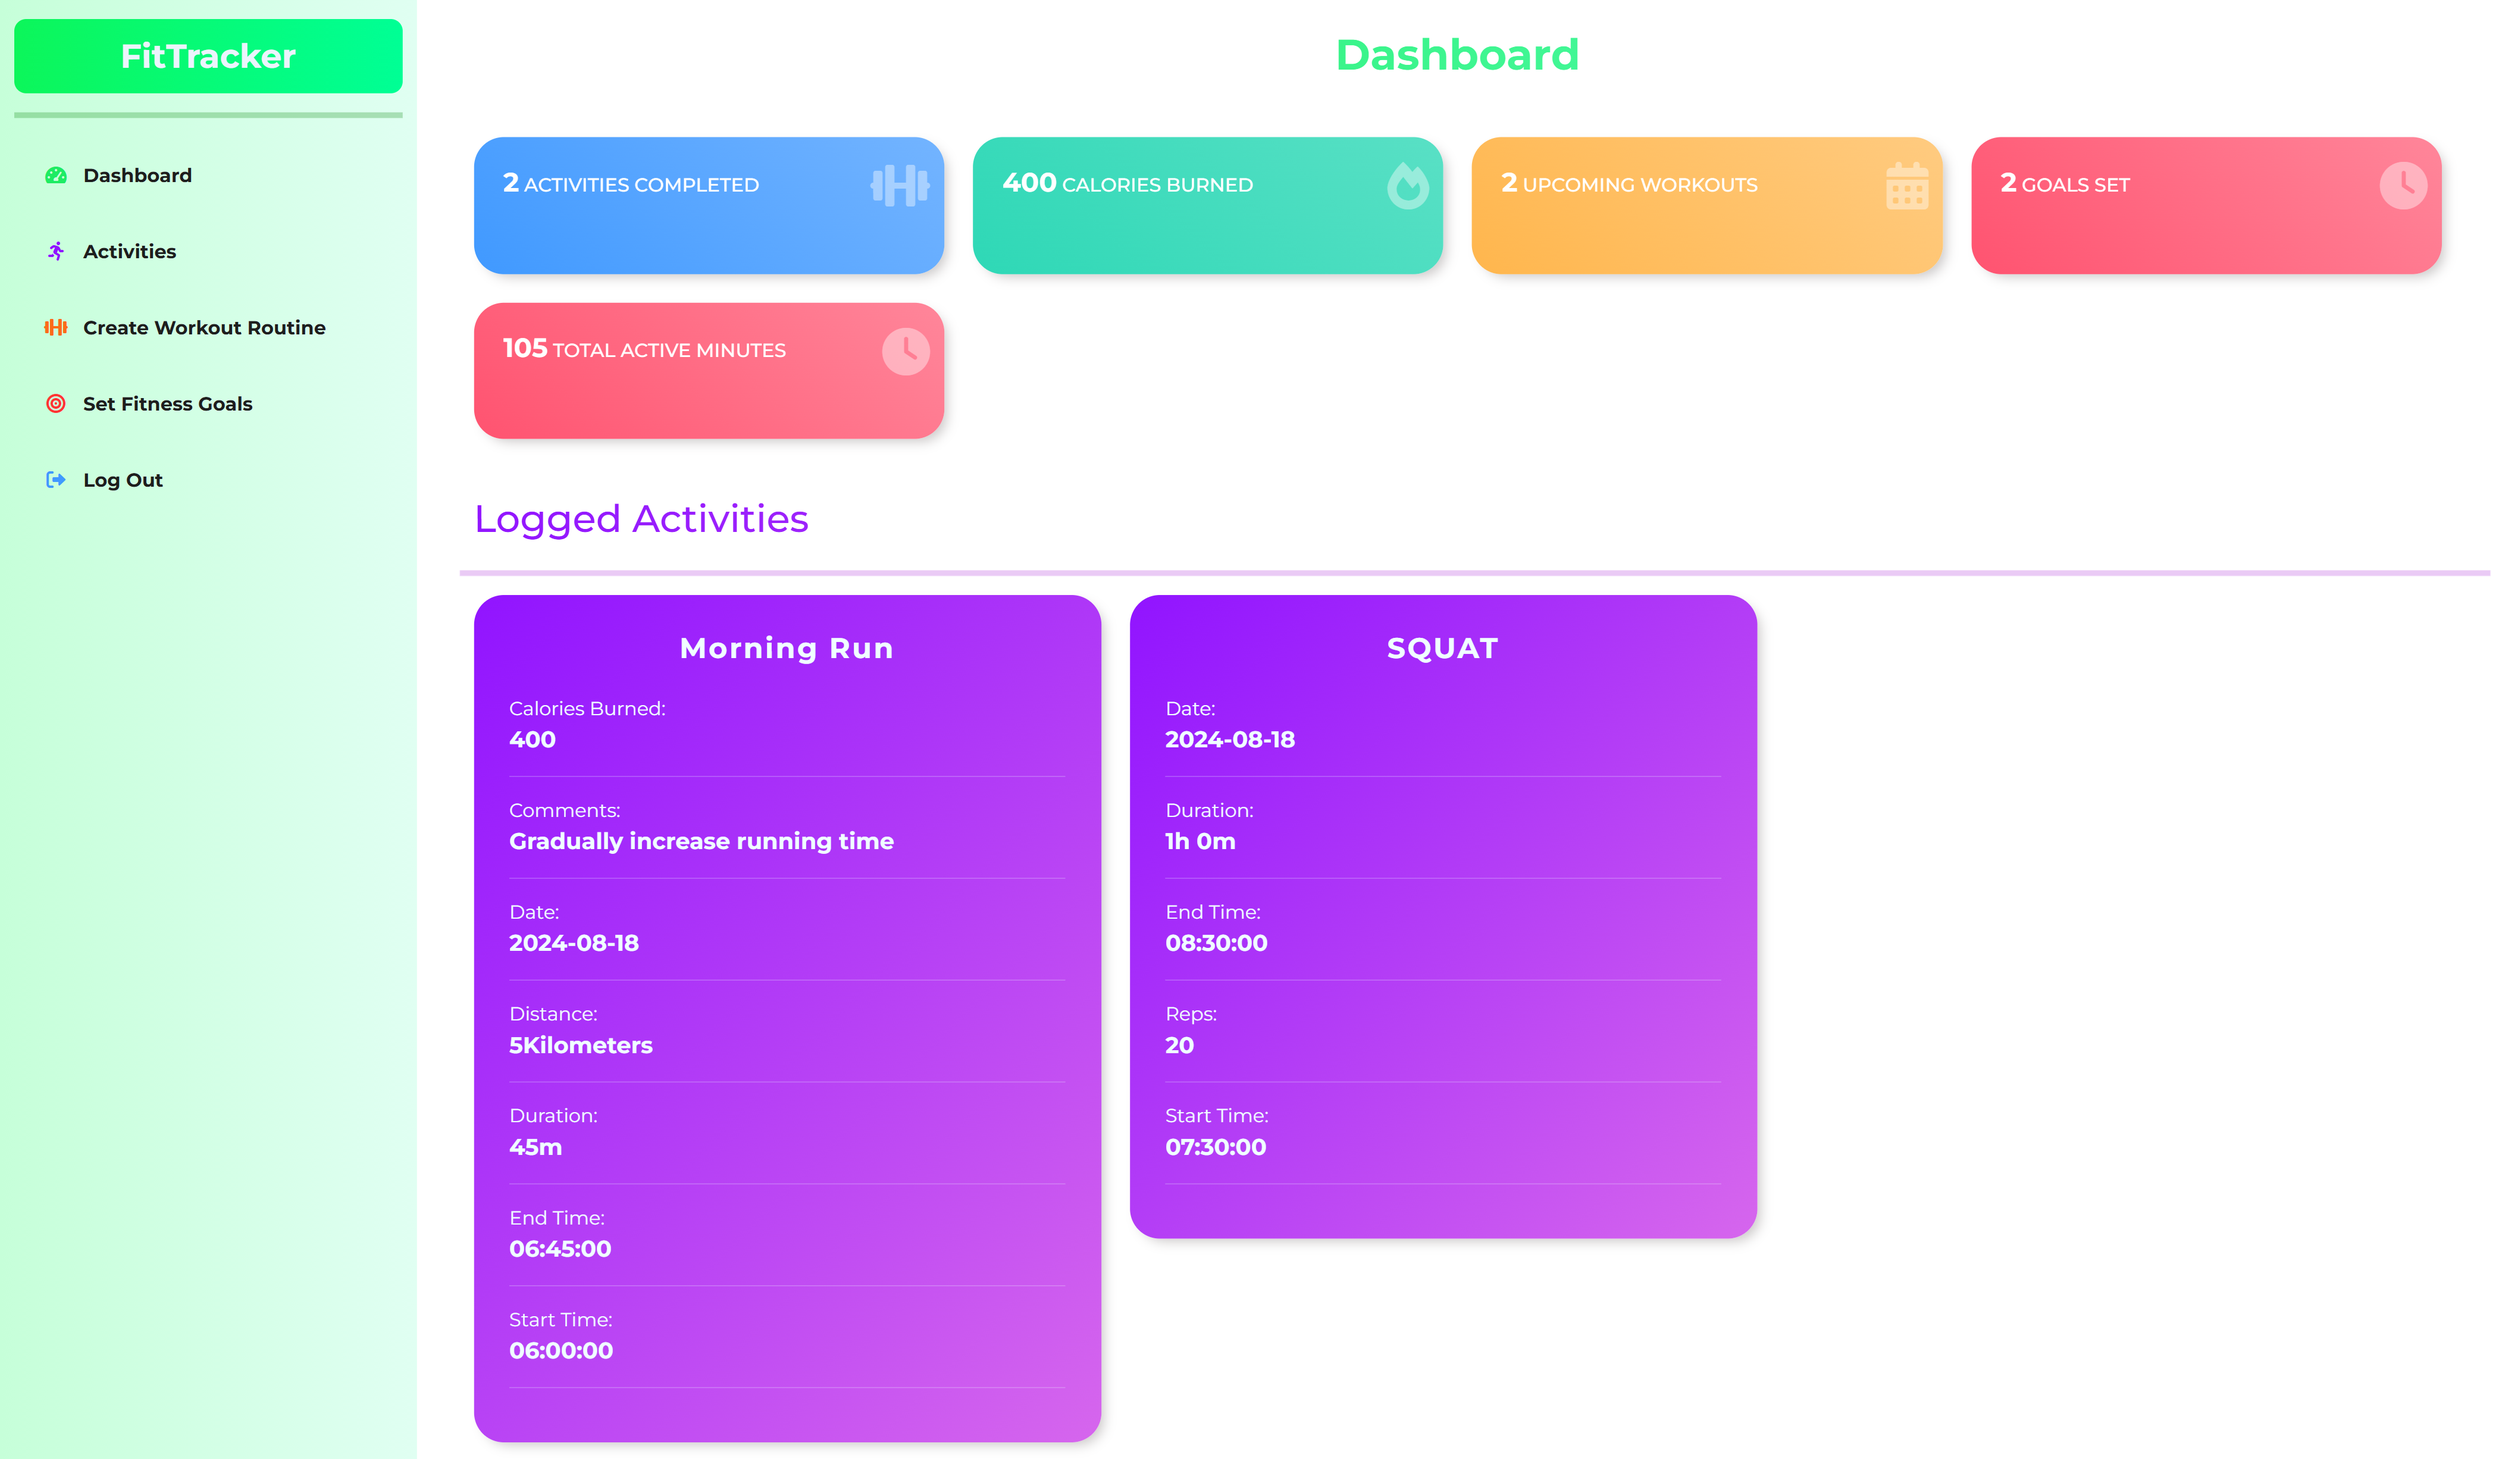
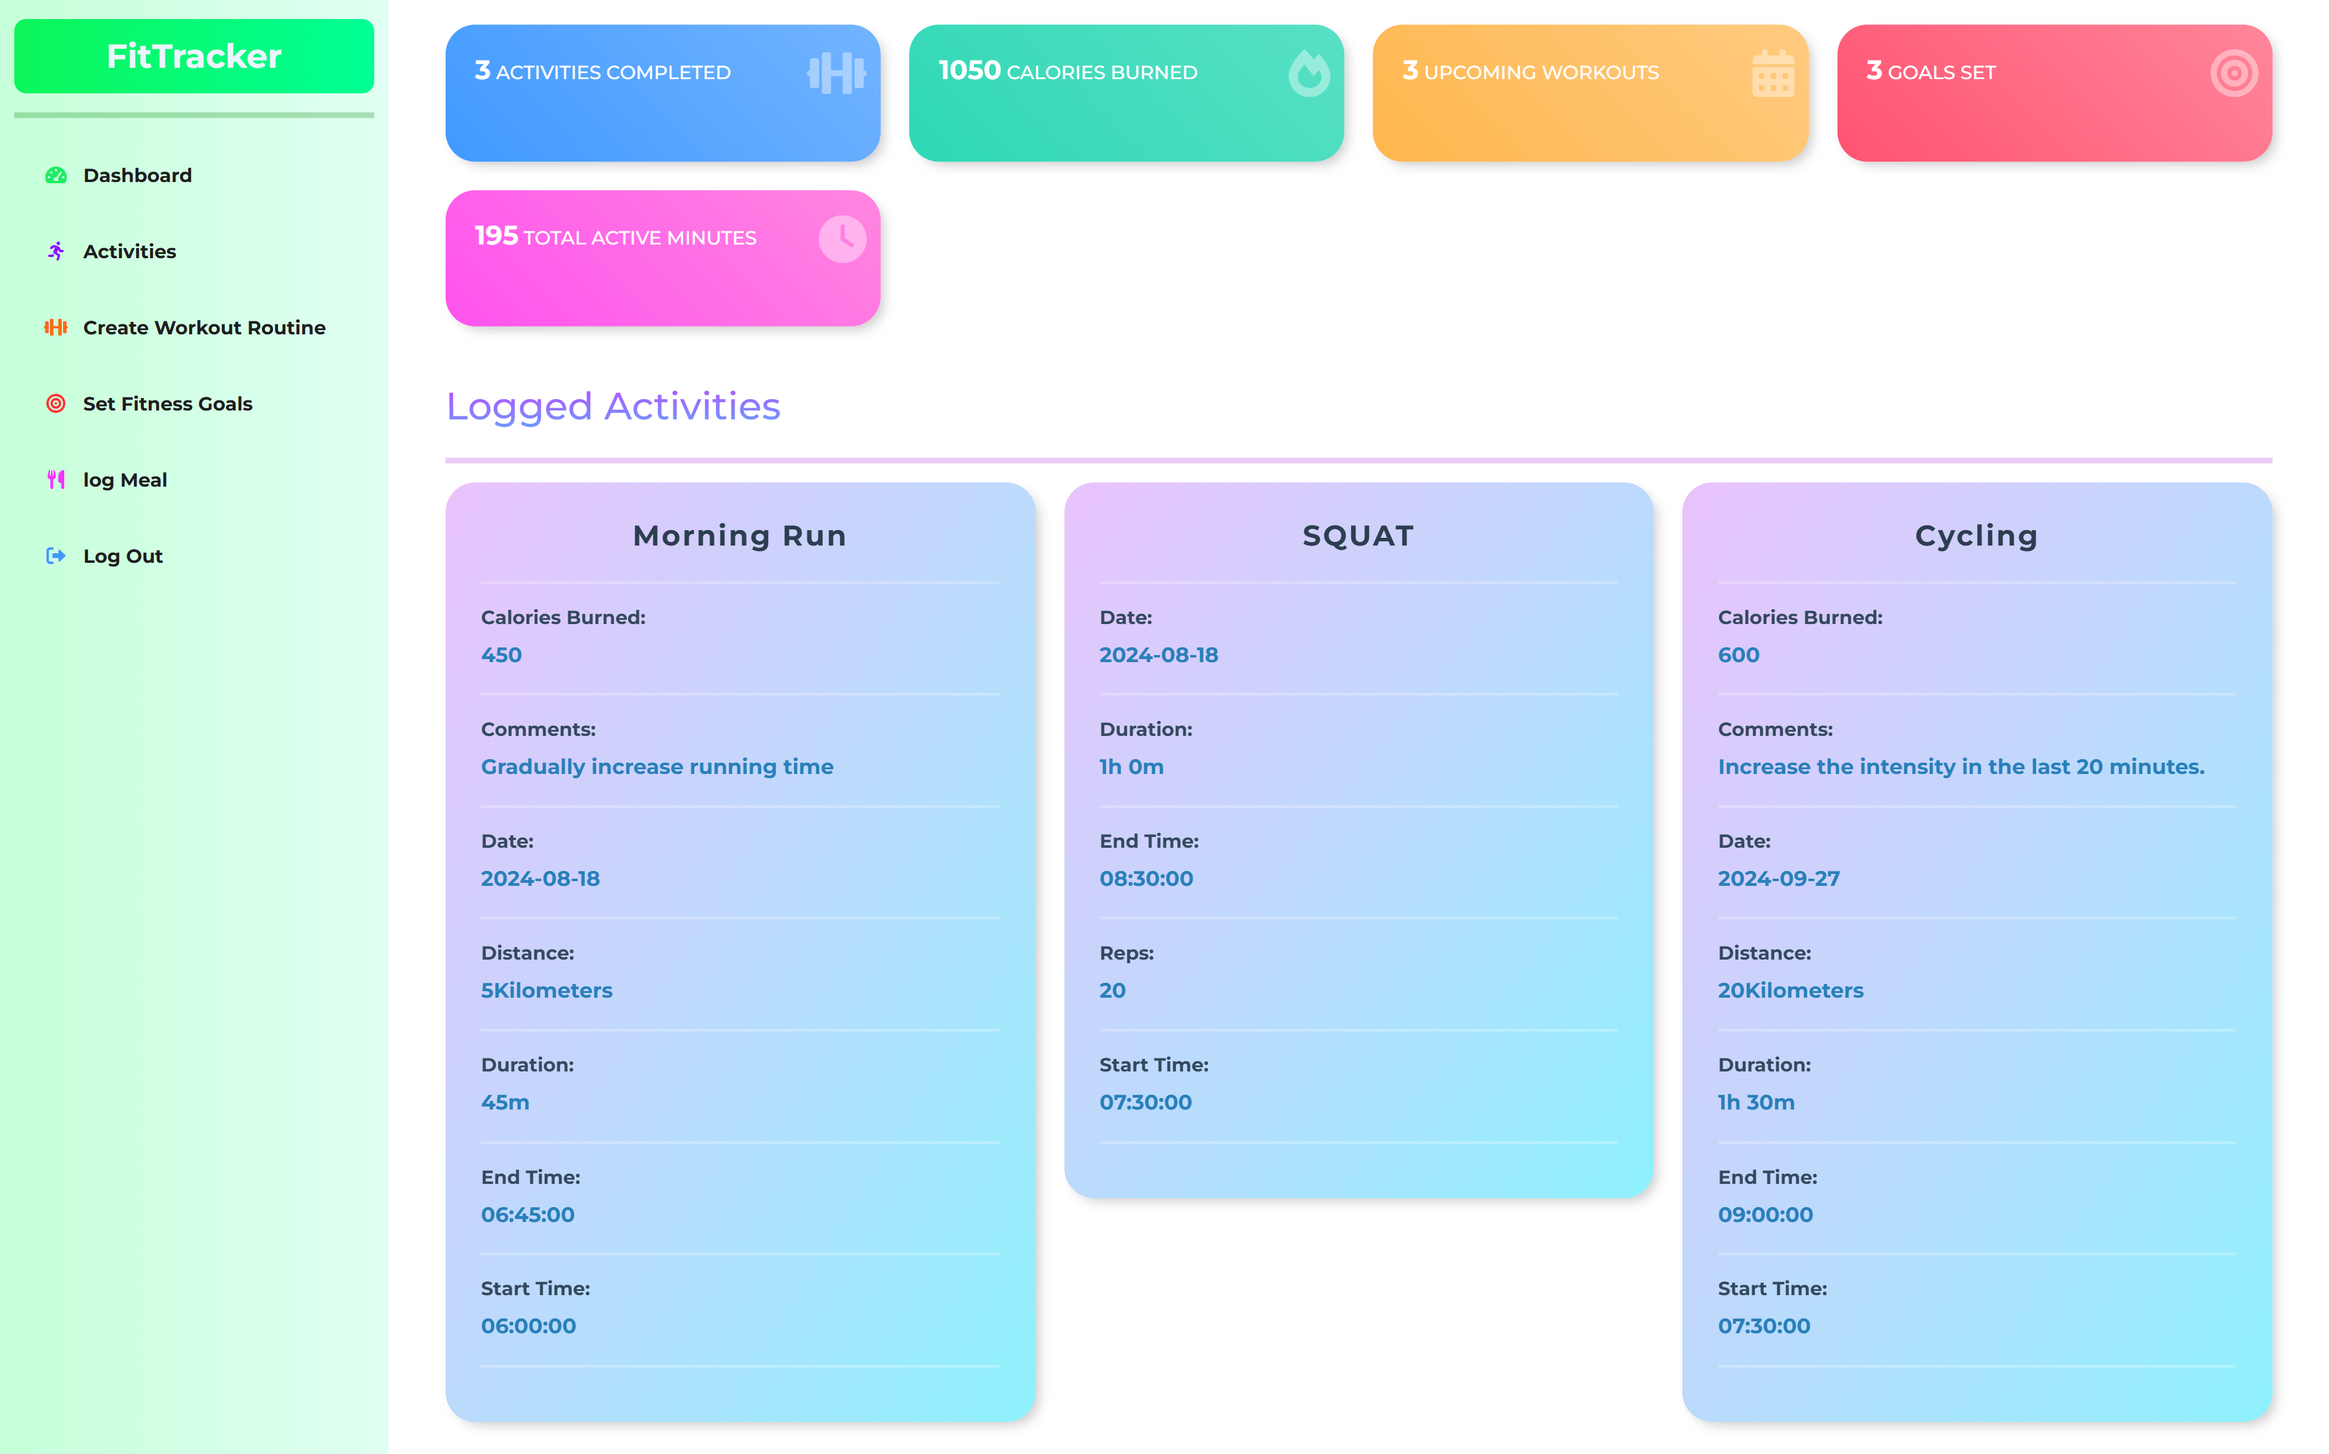
added screenshot & update readme

diff --git a/README.md b/README.md
@@ -17,9 +17,11 @@ Here are some screenshots of the application:
 
 - **Dashboard View**
   <div style="display: flex; gap: 10px;">
-      <img src="Screenshots/dashboard0.png" alt="Dashboard Overview 1" style="width: 30%;"/>
-      <img src="Screenshots/dashboard1.png" alt="Dashboard Overview 2" style="width: 30%;"/>
-      <img src="Screenshots/dashboard2.png" alt="Dashboard Overview 3" style="width: 30%;"/>
+      <img src="Screenshots/dashboard0.png" alt="Dashboard Overview 1" style="width: 20%;"/>
+      <img src="Screenshots/dashboard1.png" alt="Dashboard Overview 2" style="width: 20%;"/>
+      <img src="Screenshots/dashboard2.png" alt="Dashboard Overview 3" style="width: 20%;"/>
+      <img src="Screenshots/dashboard3.png" alt="Dashboard Overview 4" style="width: 20%;"/>
+      <img src="Screenshots/dashboard4.png" alt="Dashboard Overview 5" style="width: 20%;"/>
   </div>
 
 - **Activities Page**
@@ -45,12 +47,16 @@ Here are some screenshots of the application:
       <img src="Screenshots/edit-goal.png" alt="Edit Goal Interface" style="width: 40%;"/>
   </div>
 
+- **Log Meal Interface**
+  <img src="Screenshots/log-meal.png" alt="Meal Interface" style="width: 50%;"/>
+
 ## Features
 
 - **User Authentication**: Secure login and registration to manage user-specific data with JWT-based authentication.
 - **Fitness Tracking**: Log various types of activities (e.g., running, weightlifting), track workout details, and monitor progress.
 - **Custom Activities**: Create and manage custom activities with dynamic labels and values, including start time, end time, and automatic duration calculation.
 - **Goal Management**: Set and track fitness goals with progress updates and target dates.
+- **Daily Meal Logging**: Log daily meals and track calories and monitor macronutrients (protein, carbs, fats).
 - **Active Minutes Tracking**: Track and display the total number of active minutes or time spent on activities to motivate users.
 - **Dashboard Overview**: View summarized fitness data including:
   - Total workouts completed
